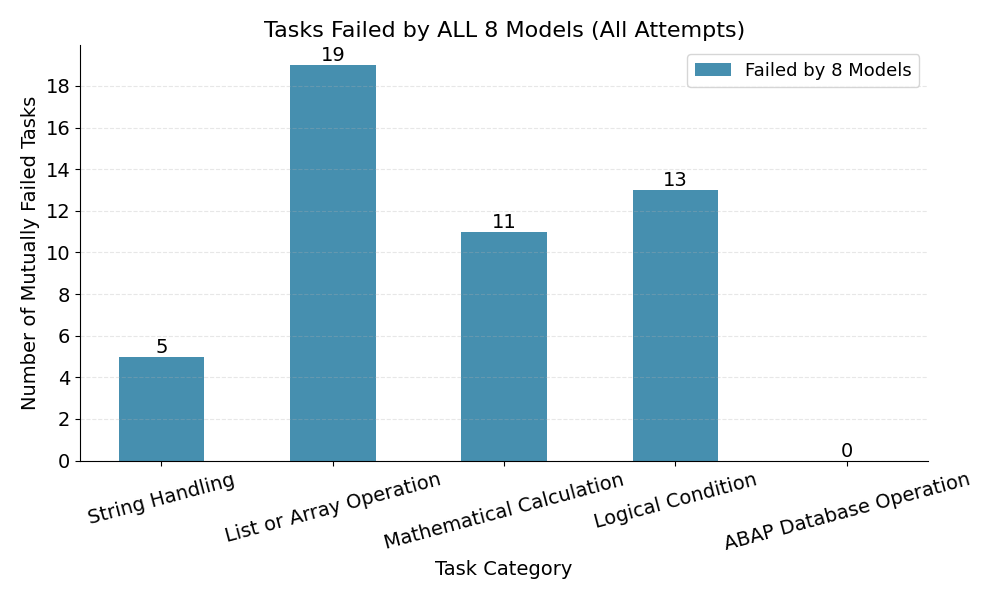
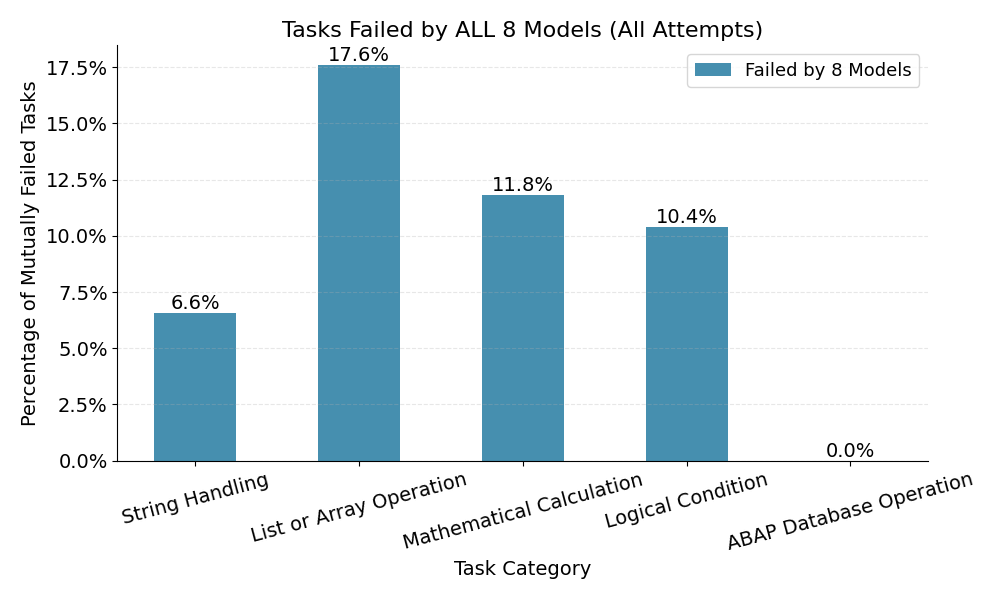
fix plots

diff --git a/analysis/plot_failed_tasks_intersection.py b/analysis/plot_failed_tasks_intersection.py
@@ -3,6 +3,7 @@ import numpy as np
 import matplotlib.pyplot as plt
 from typing import Dict, List
 from plot_style import COLORS, apply_plot_style
+from matplotlib.ticker import PercentFormatter
 
 apply_plot_style()
 
@@ -11,7 +12,7 @@ def get_failed_task_counts(file_path):
         df = pd.read_csv(file_path, sep=';')
     except Exception as e:
         print(f"Error reading CSV: {e}")
-        return None
+        return None, None
 
     target_models = df['Model'].unique()
     print(f"Models found: {target_models}")
@@ -27,6 +28,7 @@ def get_failed_task_counts(file_path):
     ]
     
     failed_task_ids = {model: {} for model in target_models}
+    category_total_counts = {}
 
     for model in target_models:
         model_df = df[df['Model'] == model]
@@ -41,8 +43,11 @@ def get_failed_task_counts(file_path):
             if len(category_df) == 0:
                 failed_task_ids[model][category] = set()
                 continue
-                
+            
             tasks = category_df['Prompt'].unique()
+            if category not in category_total_counts:
+                category_total_counts[category] = len(tasks)
+                
             current_category_failed_ids = set()
             
             for task_id in tasks:
@@ -52,7 +57,6 @@ def get_failed_task_counts(file_path):
                 
                 for _, row in task_attempts.iterrows():
                     is_success = False
-                    # Check for 'True' (English) as generated by consolidate_results.py
                     if str(row['Success']) == 'True':
                         is_success = True
                     else:
@@ -73,22 +77,31 @@ def get_failed_task_counts(file_path):
             
             failed_task_ids[model][category] = current_category_failed_ids
 
-    return failed_task_ids
+    return failed_task_ids, category_total_counts
 
-def visualize_failed_tasks_intersection(failed_task_ids: Dict[str, Dict[str, set]]):
+def visualize_failed_tasks_intersection(failed_task_ids: Dict[str, Dict[str, set]], category_total_counts: Dict[str, int]):
     models = list(failed_task_ids.keys())
     first_model = models[0]
     categories = list(failed_task_ids[first_model].keys())
     
-    intersection_counts = {}
+    intersection_percentages = {}
+    
     for category in categories:
         sets = [failed_task_ids[model][category] for model in models]
         intersection = set.intersection(*sets)
-        intersection_counts[category] = len(intersection)
-        print(f"Category: {category}, Failed by ALL ({len(models)} models): {len(intersection)}")
+        count = len(intersection)
+        total = category_total_counts.get(category, 0)
+        
+        if total > 0:
+            percentage = (count / total) * 100
+        else:
+            percentage = 0.0
+            
+        intersection_percentages[category] = percentage
+        print(f"Category: {category}, Failed by ALL: {count}/{total} ({percentage:.2f}%)")
 
     x = np.arange(len(categories))
-    values = [intersection_counts[cat] for cat in categories]
+    values = [intersection_percentages[cat] for cat in categories]
     
     plt.figure(figsize=(10, 6))
     
@@ -103,15 +116,14 @@ def visualize_failed_tasks_intersection(failed_task_ids: Dict[str, Dict[str, set
     for bar in bars:
         height = bar.get_height()
         plt.text(bar.get_x() + bar.get_width()/2., height,
-                 f'{int(height)}',
+                 f'{height:.1f}%',
                  ha='center', va='bottom')
         
     plt.xlabel("Task Category")
-    plt.ylabel("Number of Mutually Failed Tasks")
+    plt.ylabel("Percentage of Mutually Failed Tasks")
     plt.title(f"Tasks Failed by ALL {len(models)} Models (All Attempts)")
     
-    from matplotlib.ticker import MaxNLocator
-    plt.gca().yaxis.set_major_locator(MaxNLocator(integer=True))
+    plt.gca().yaxis.set_major_formatter(PercentFormatter())
     
     plt.xticks(x, categories, rotation=15)
     plt.legend()
@@ -122,6 +134,9 @@ def visualize_failed_tasks_intersection(failed_task_ids: Dict[str, Dict[str, set
     print(f"Plot saved to {output_file}")
 
 if __name__ == "__main__":
-    failed_task_ids = get_failed_task_counts('../data/results.csv')
+    import os
+    current_dir = os.path.dirname(os.path.abspath(__file__))
+    file_path = os.path.join(current_dir, '../data/results.csv')
+    failed_task_ids, category_total_counts = get_failed_task_counts(file_path)
     if failed_task_ids:
-        visualize_failed_tasks_intersection(failed_task_ids)
+        visualize_failed_tasks_intersection(failed_task_ids, category_total_counts)

diff --git a/analysis/km_analysis_abap.py b/analysis/km_analysis_abap.py
@@ -81,7 +81,10 @@ def run_analysis():
             if found_success_string:
                 success_event = True
                 
-            durations.append(duration_index)
+            final_duration = duration_index
+            if not success_event:
+                 final_duration = 5         
+            durations.append(final_duration)
             events.append(1 if success_event else 0)
 
         km_df = pd.DataFrame({

diff --git a/analysis/km_analysis.py b/analysis/km_analysis.py
@@ -71,7 +71,10 @@ def run_analysis():
             if found_success_string:
                 success_event = True
                 
-            durations.append(duration_index)
+            final_duration = duration_index
+            if not success_event:
+                 final_duration = 5   
+            durations.append(final_duration)
             events.append(1 if success_event else 0)
 
         km_df = pd.DataFrame({

diff --git a/analysis/plot_syntax_error_patterns.py b/analysis/plot_syntax_error_patterns.py
@@ -99,4 +99,7 @@ def visualize_syntax_errors(json_path='../data/syntax_errors.json'):
     print("\nModel Order used:", model_order)
 
 if __name__ == "__main__":
-    visualize_syntax_errors()
+    import os
+    current_dir = os.path.dirname(os.path.abspath(__file__))
+    json_path = os.path.join(current_dir, '../syntax_errors.json')
+    visualize_syntax_errors(json_path)
